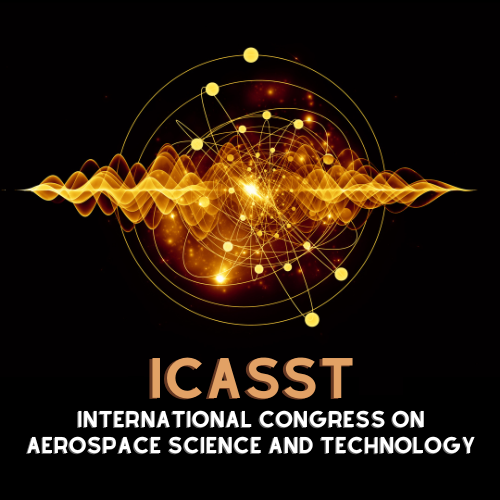
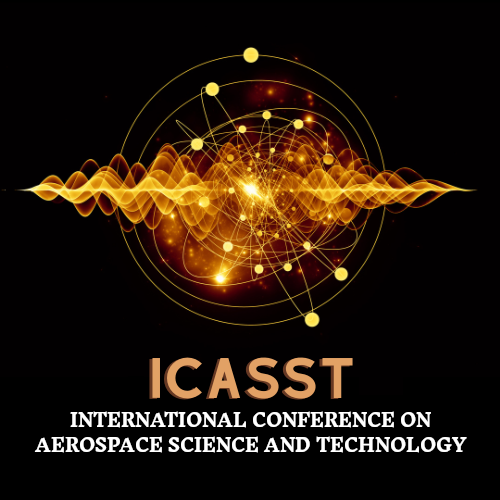
modificaciones

Changed region(s): [[0.06, 0.81, 0.96, 0.93]]

diff --git a/index.html b/index.html
@@ -71,7 +71,7 @@
           <div class="carousel-item active" style="background-image: url(assets/img/slide/satelite1.png);">
             <div class="carousel-container">
               <div class="carousel-content">
-                <h2 class="animate__animated animate__fadeInDown">International Congress on Aerospace Science and Technology 2022</h2>
+                <h2 class="animate__animated animate__fadeInDown">International Conference on Aerospace Science and Technology 2022</h2>
                 <h2 class="animate__animated animate__fadeInUp"><i>(virtual/hybrid)</i></h2>
                 <p class="animate__animated animate__fadeInUp">
 
@@ -160,7 +160,7 @@
           <div class="carousel-item" style="background-image: url(assets/img/slide/cohete.png);">
             <div class="carousel-container">
               <div class="carousel-content">
-                <h2 class="animate__animated animate__fadeInDown">International Congress on Aerospace Science and Technology 2022</h2>
+                <h2 class="animate__animated animate__fadeInDown">International Conference on Aerospace Science and Technology 2022</h2>
                 <h2 class="animate__animated animate__fadeInUp"><i>(virtual/hybrid)</i></h2>
                 <p class="animate__animated animate__fadeInUp">
 
@@ -675,7 +675,7 @@
           
           <div class="col-lg-3 mt-4 mt-lg-0">
             <div class="box">
-              <h4>Dra. Laura Ivoonne Garay Jiménez</h4>
+              <h4>Dra. Laura Ivoone Garay Jiménez</h4>
               <p>Unidad Profesional Interdisciplinaria de Ingeniería y Tecnologías Avanzadas, Instituto Politécnico Nacional. Mexico.</p>
               <div>
                 &nbsp;
@@ -815,6 +815,35 @@
               <div class="col-6 col-md-4">
                 <a href="https://www.researchgate.net/profile/Jose-Rodrigo-Cordova-Alarcon" title="ResearchGate"><i class="bi bi-person-lines-fill icon-logos"></i></a>&nbsp;
                 <a href="https://orcid.org/0000-0003-0833-0381" title="ORCID"><i class="bx bx-link icon-logos"></i></a>
+              </div>
+            </div>
+          </div>
+
+          <div class="col-lg-3 mt-4 mt-lg-0">
+            <div class="box">
+              <h4>Phys. María Luisa Marquina Fábrega</h4>
+              <p>Facultad de Ciencias, Universidad Nacional Autónoma de México, Mexico.</p>
+              <div>
+                <br><br>
+                &nbsp;
+              </div>
+              <div class="col-6 col-md-4">
+              </div>
+            </div>
+          </div>
+
+          <div class="col-lg-3 mt-4 mt-lg-0">
+            <div class="box">
+              <h4>Dr. Alipio Gustavo Calles Martínez</h4>
+              <p>Facultad de Ciencias, Universidad Nacional Autónoma de México, Mexico.</p>
+              <div>
+                <br>
+                &nbsp;
+              </div>
+              <div class="col-6 col-md-4">
+                <a href="https://www.researchgate.net/scientific-contributions/Alipio-G-Calles-2137108242" title="ResearchGate"><i
+                    class="bi bi-person-lines-fill icon-logos"></i></a>&nbsp;
+                <a href="https://orcid.org/0000-0001-5560-4571" title="ORCID"><i class="bx bx-link icon-logos"></i></a>
               </div>
             </div>
           </div>
@@ -1226,19 +1255,6 @@
 
           <div class="col-lg-4 col-md-6 portfolio-item filter-app">
             <div class="portfolio-wrap">
-              <img src="assets/img/portfolio/Logos_Unis/UMNG800x600.png" class="img-fluid" alt="">
-              <div class="portfolio-info">
-                <h4>Universidad Militar Nueva Granada</h4>
-                <p>UMNG - Colombia</p>
-                <div class="portfolio-links">
-                  <a href="https://www.umng.edu.co/inicio" title="More Details"><i class="bx bx-link"></i></a>
-                </div>
-              </div>
-            </div>
-          </div>
-
-          <div class="col-lg-4 col-md-6 portfolio-item filter-app">
-            <div class="portfolio-wrap">
               <img src="assets/img/portfolio/Logos_Unis/UASLP800x600.png" class="img-fluid" alt="">
               <div class="portfolio-info">
                 <h4>Universidad Aut&oacutenoma de San Luis Potos&iacute</h4>
@@ -1291,6 +1307,19 @@
 
           <div class="col-lg-4 col-md-6 portfolio-item filter-app">
             <div class="portfolio-wrap">
+              <img src="assets/img/portfolio/Logos_Unis/FAC_de_Cienc.png" class="img-fluid" alt="">
+              <div class="portfolio-info">
+                <h4>Facultad de Ciencias, Universidad Nacional Autónoma de México</h4>
+                <p>UNAM - MEXICO</p>
+                <div class="portfolio-links">
+                  <a href="http://cor.fciencias.unam.mx/" title="More Details"><i class="bx bx-link"></i></a>
+                </div>
+              </div>
+            </div>
+          </div>
+
+          <div class="col-lg-4 col-md-6 portfolio-item filter-app">
+            <div class="portfolio-wrap">
               <img src="assets/img/portfolio/Logos_Unis/UCC800x600.png" class="img-fluid" alt="">
               <div class="portfolio-info">
                 <h4>Universidad de Córdoba</h4>
@@ -1301,6 +1330,8 @@
               </div>
             </div>
           </div>
+
+          
 
         </div>
 
@@ -1769,7 +1800,7 @@
 
           
           <div class="col-lg-4 col-md-6 footer-newsletter">
-            <h4>International Congress on Aerospace Science and Technology 2022</h4>
+            <h4>International Conference on Aerospace Science and Technology 2022</h4>
             <p>(virtual/hybrid)</p>
           </div>
         </div>
